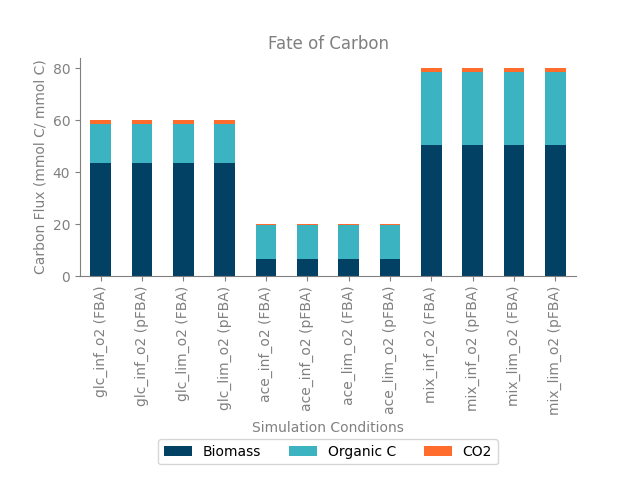
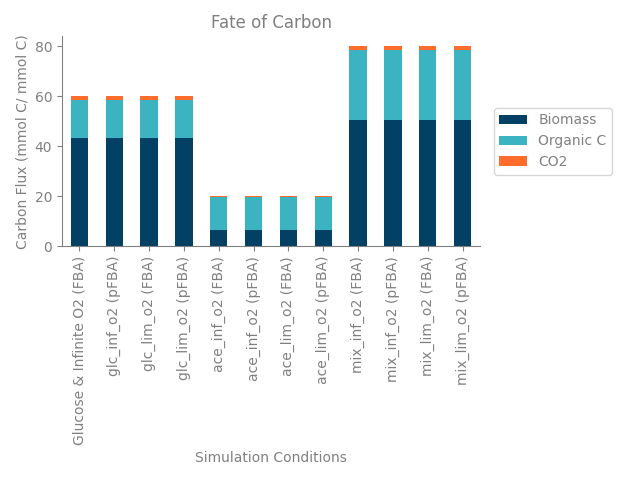
Get a pretty legend on the right

diff --git a/plot_styles.py b/plot_styles.py
@@ -22,30 +22,30 @@ def set_plot_style(g):
 def carbon_fates_bar(data):
     # Check that the column names and order are correct
     assert data.columns.to_list() == ["biomass", "organic_c", "co2"]
-
-    # Get the maximum length of the condition names
-    max_label_len = data.index.str.len().max()
-
     # Plot the stacked bar plot
     g = data.plot(kind="bar", stacked=True, color=[DARK_BLUE, LIGHT_BLUE, ORANGE])
+    # Add the title and axis labels (in gray)
+    g.set_title("Fate of Carbon", color="gray")
+    g.set_xlabel("Simulation Conditions", color="gray")
+    g.set_ylabel("Carbon Flux (mmol C/ mmol C)", color="gray")  # TODO: Check the units
+    # Use tight layout so that the axis labels are not cut off
+    plt.tight_layout()
     # Move the legend outside of the plot
     custom_labels = ["Biomass", "Organic C", "CO2"]
     lgd = plt.legend(
-        bbox_to_anchor=(0.5, -0.044 * max_label_len),  # 42 was a magic number to get the legend to go below the labels, not sure how transferable this is
-        loc="upper center",
-        borderaxespad=0.0,
-        ncol=3,
+        bbox_to_anchor=(1, 0.5),
+        loc="center left",
+        borderaxespad=1,
         labels=custom_labels,
     )
+    # Extend the plot area to fit the legend
+    plt.subplots_adjust(right=0.75)
     # Make the legend text gray too
     for text in lgd.get_texts():
         text.set_color("gray")
-    # Adjust the bottom margin
-    plt.subplots_adjust(bottom=0.025*max_label_len)
     # Style
     set_plot_style(g)
-    # Title the plot and make it gray
-    g.set_title("Fate of Carbon", color="gray")
+    
 
     # Return the plot
     return g

diff --git a/mit1002_full/glc_and_ace/plot_cue.py b/mit1002_full/glc_and_ace/plot_cue.py
@@ -24,23 +24,23 @@ results = pd.read_csv(os.path.join(OUT_DIR, "results.csv"))
 
 # Add a column for the condition name with a list of names
 # FIXME: This is fragile to the order of the results- find a way to use the solution directly
-condition_names = ["glc_inf_o2 (FBA)",
-                   "glc_inf_o2 (pFBA)",
-                   "glc_lim_o2 (FBA)",
-                   "glc_lim_o2 (pFBA)",
-                   "ace_inf_o2 (FBA)",
-                   "ace_inf_o2 (pFBA)",
-                   "ace_lim_o2 (FBA)",
-                   "ace_lim_o2 (pFBA)",
-                   "mix_inf_o2 (FBA)",
-                   "mix_inf_o2 (pFBA)",
-                   "mix_lim_o2 (FBA)",
-                   "mix_lim_o2 (pFBA)"]
+condition_names = [
+    "Glucose & Infinite O2 (FBA)",
+    "glc_inf_o2 (pFBA)",
+    "glc_lim_o2 (FBA)",
+    "glc_lim_o2 (pFBA)",
+    "ace_inf_o2 (FBA)",
+    "ace_inf_o2 (pFBA)",
+    "ace_lim_o2 (FBA)",
+    "ace_lim_o2 (pFBA)",
+    "mix_inf_o2 (FBA)",
+    "mix_inf_o2 (pFBA)",
+    "mix_lim_o2 (FBA)",
+    "mix_lim_o2 (pFBA)",
+]
 results["condition"] = condition_names
 
 # Stacked bar plot of the carbon fates for the different conditions
 data = results.set_index("condition")[["biomass", "organic_c", "co2"]]
 g = carbon_fates_bar(data)
-g.set_xlabel("Simulation Conditions", color="gray")
-g.set_ylabel("Carbon Flux (mmol C/ mmol C)", color="gray")  # TODO: Check the units
 plt.savefig(os.path.join(output_folder, "carbon_fates.png"))
